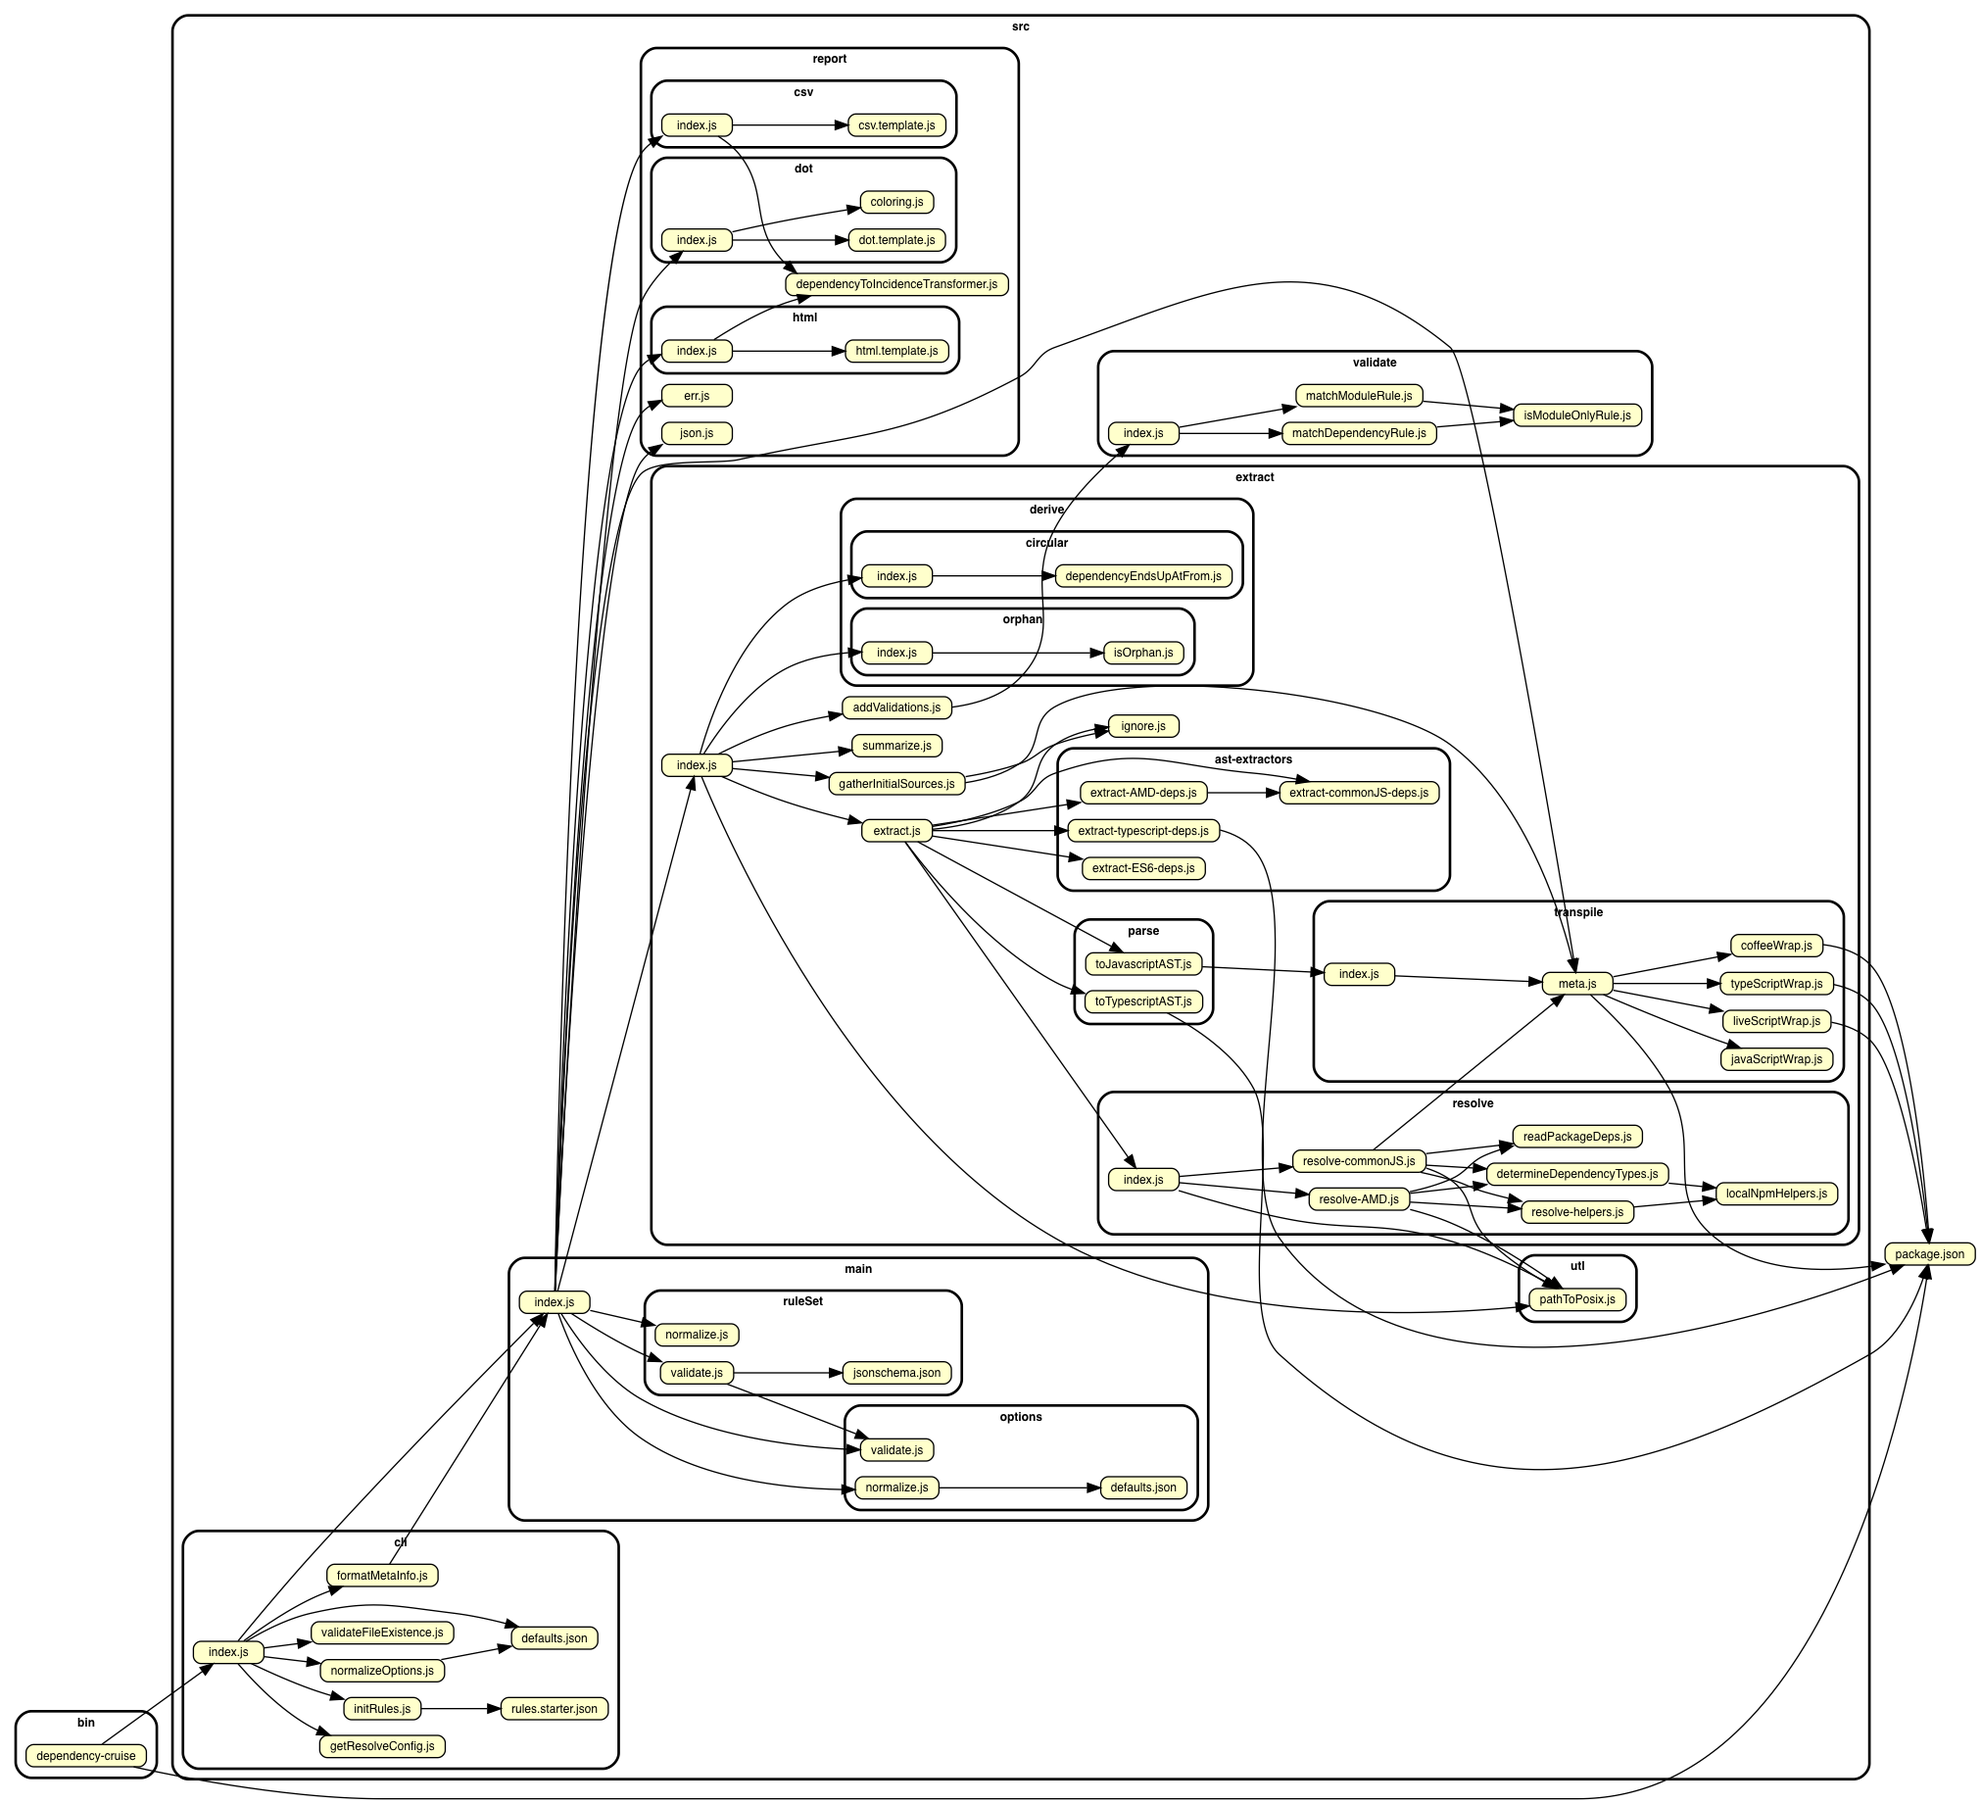
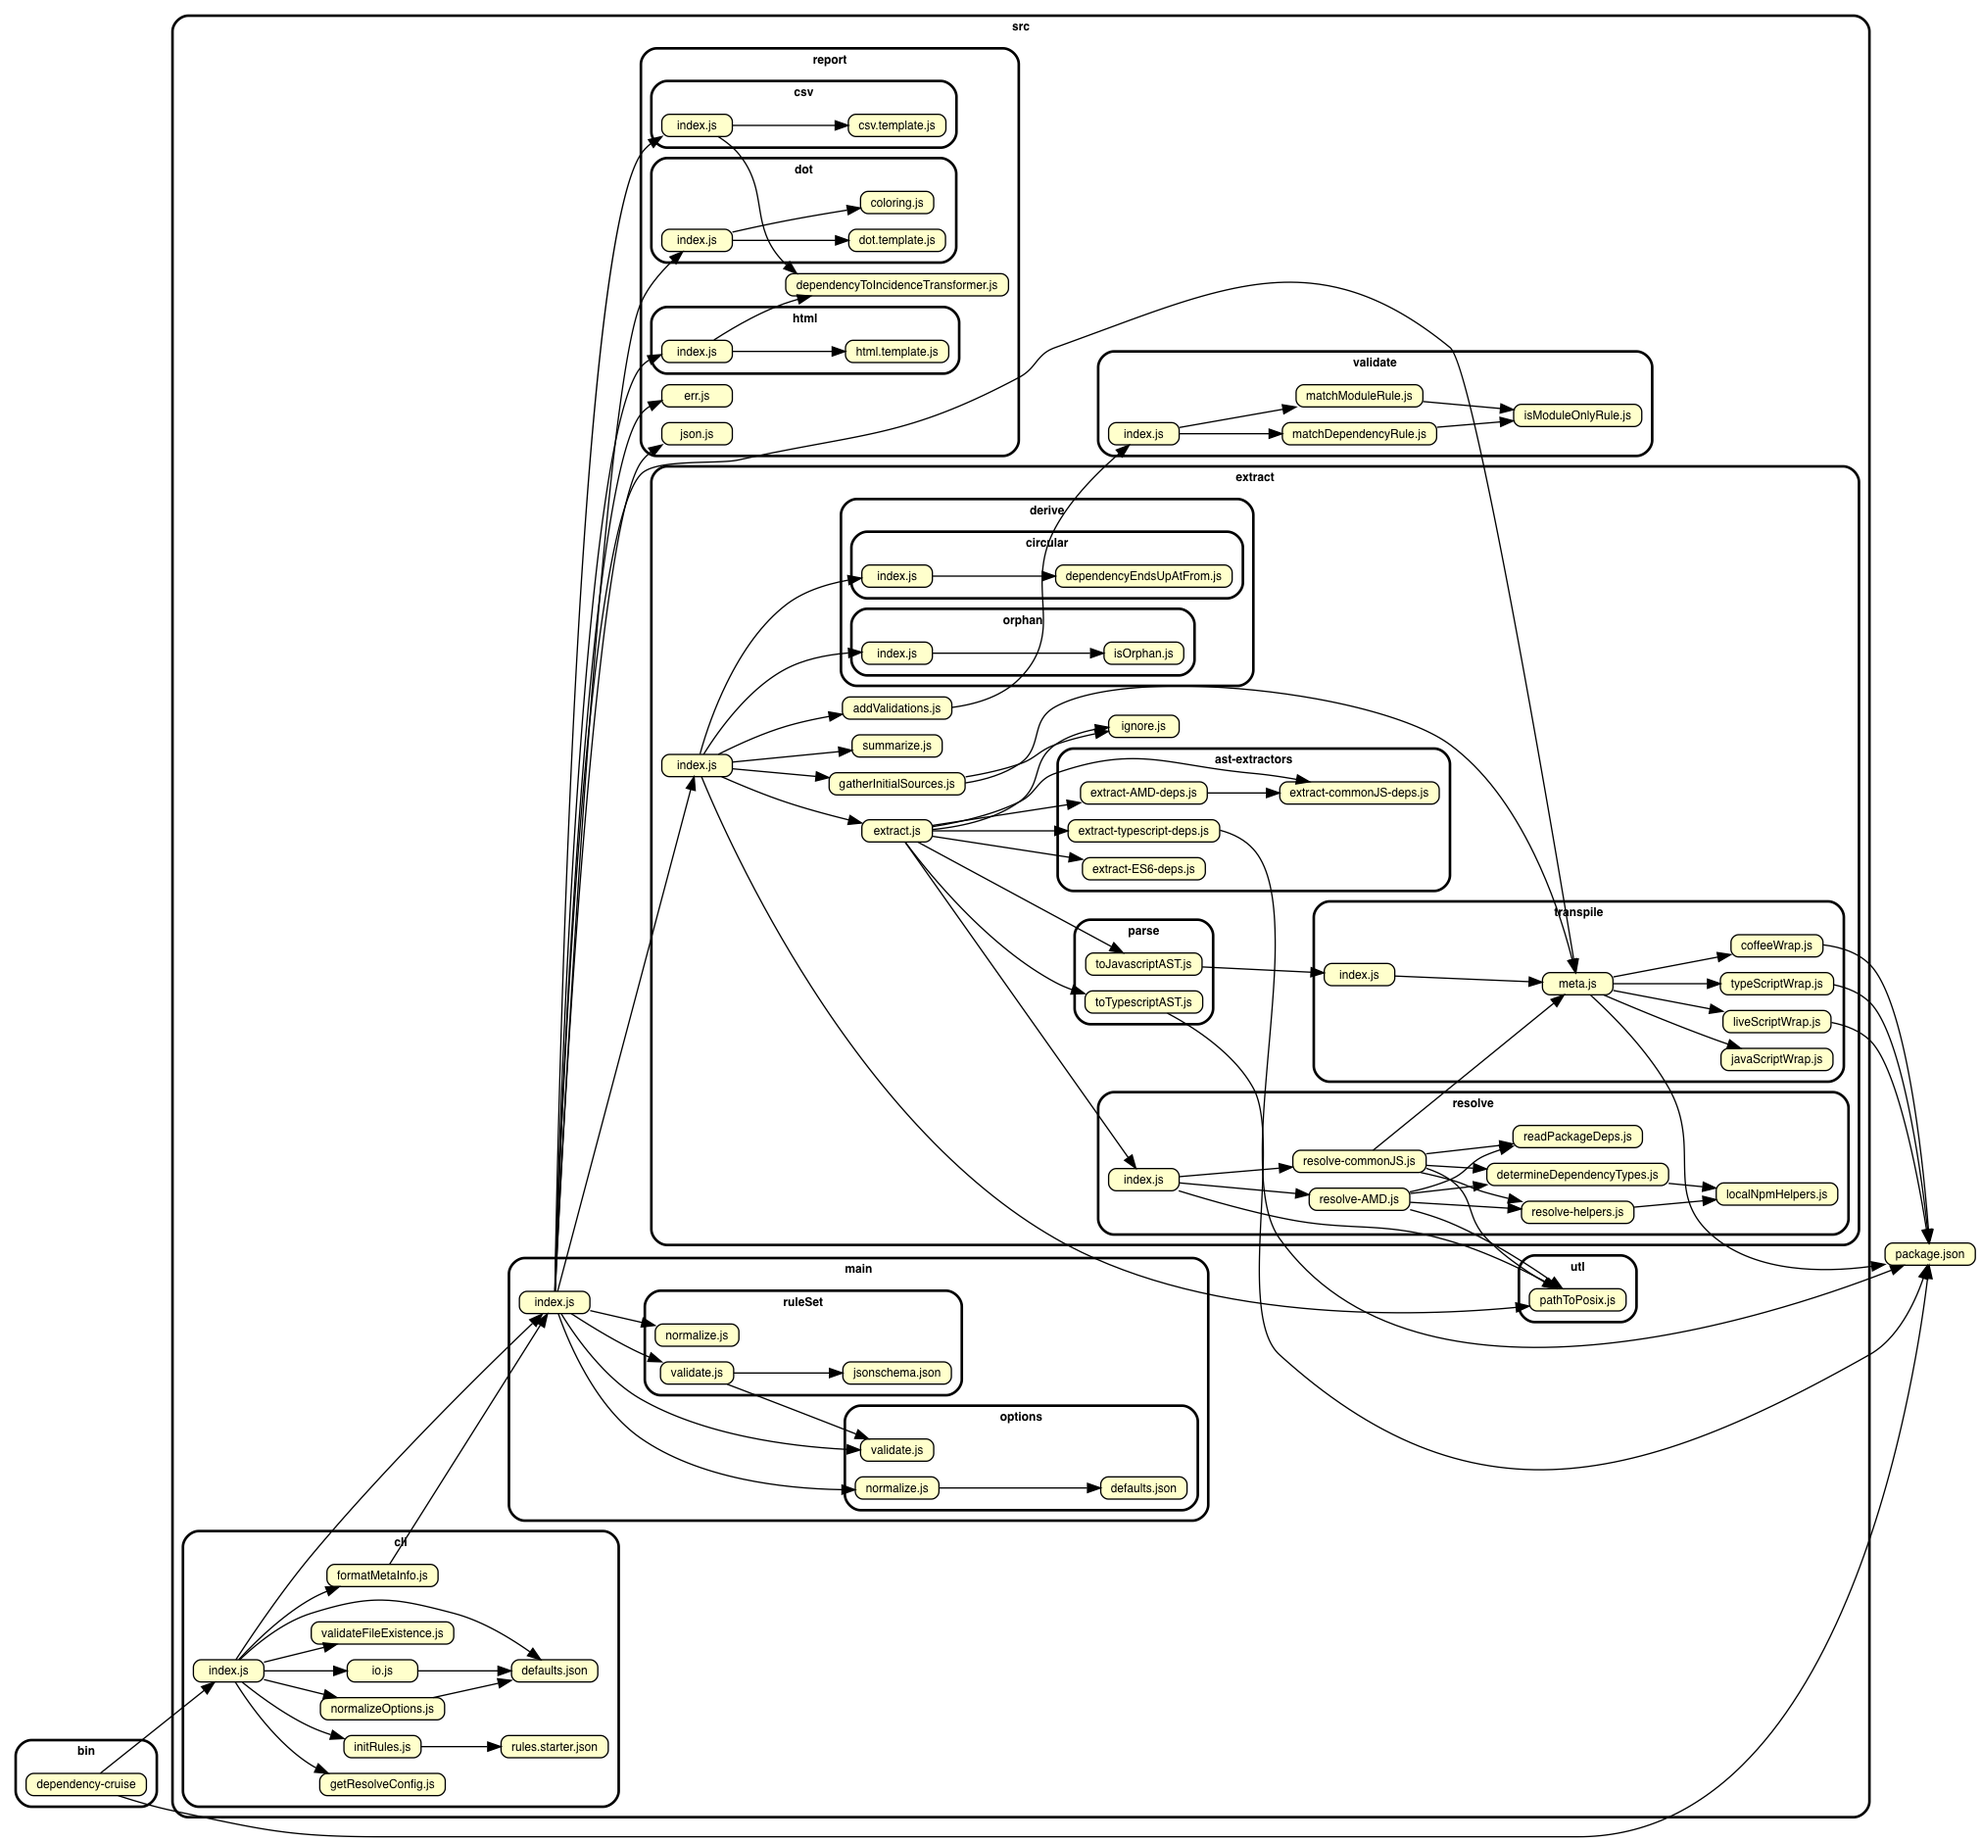
refactor(cli): put write functions in a separate module

diff --git a/src/cli/index.js b/src/cli/index.js
@@ -1,6 +1,5 @@
 "use strict";
 
-const fs                    = require('fs');
 const glob                  = require('glob');
 const _get                  = require('lodash').get;
 const main                  = require('../main');
@@ -8,52 +7,10 @@ const getResolveConfig      = require('./getResolveConfig');
 const validateFileExistence = require('./validateFileExistence');
 const normalizeOptions      = require('./normalizeOptions');
 const initRules             = require('./initRules');
+const io                    = require('./io');
 const formatMetaInfo        = require('./formatMetaInfo');
 const defaults              = require('./defaults.json');
 
-function writeToFile(pOutputTo, pDependencyString) {
-    try {
-        fs.writeFileSync(
-            pOutputTo,
-            pDependencyString,
-            {encoding: "utf8", flag: "w"}
-        );
-    } catch (e) {
-        process.stderr.write(`ERROR: Writing to '${pOutputTo}' didn't work. ${e}`);
-    }
-}
-
-/**
- * Writes the string pString to stdout in chunks of pBufferSize size.
- *
- * When writing to a pipe, it's possible that pipe's buffer is full.
- * To prevent this problem from happening we should take the value at which
- * the OS guarantees atomic writes to pipes - which on my OSX machine is
- * 512 bytes. That seems pretty low (I've seen reports of 4k on the internet)
- * so it looks like a safe limit.
- *
- * @param  {string} pString The string to write
- * @param  {number} pBufferSize The size of the buffer to use.
- * @returns {void} nothing
- */
-function writeToStdOut(pString, pBufferSize) {
-    const lNumberOfChunks = Math.ceil(pString.length / pBufferSize);
-    let i = 0;
-
-    for (i = 0; i < lNumberOfChunks; i++) {
-        process.stdout.write(pString.substr(i * pBufferSize, pBufferSize));
-    }
-
-}
-
-function write(pOutputTo, pContent) {
-    if ("-" === pOutputTo) {
-        // OS pipe buffer size in bytes - which is what ulimit -a tells me on OSX
-        writeToStdOut(pContent, defaults.PIPE_BUFFER_SIZE);
-    } else {
-        writeToFile(pOutputTo, pContent);
-    }
-}
 
 function createRulesFile(pOptions) {
     initRules(normalizeOptions.determineRulesFileName(pOptions.validate));
@@ -91,7 +48,7 @@ function runCruise(pFileDirArray, pOptions) {
 
     const lDependencyList = main.cruise(pFileDirArray, pOptions, lResolveOptions);
 
-    write(pOptions.outputTo, lDependencyList.modules);
+    io.write(pOptions.outputTo, lDependencyList.modules);
 
     /* istanbul ignore if */
     if (lDependencyList.summary.error > 0) {
@@ -114,4 +71,4 @@ module.exports = (pFileDirArray, pOptions) => {
         process.stderr.write(`\n  ERROR: ${e.message}\n`);
     }
 };
-/* eslint no-process-exit: 0 no-plusplus: 0*/
+/* eslint no-process-exit: 0 */

diff --git a/src/cli/io.js b/src/cli/io.js
@@ -1,0 +1,50 @@
+const fs                    = require('fs');
+const defaults              = require('./defaults.json');
+
+function writeToFile(pOutputTo, pDependencyString) {
+    try {
+        fs.writeFileSync(
+            pOutputTo,
+            pDependencyString,
+            {encoding: "utf8", flag: "w"}
+        );
+    } catch (e) {
+        process.stderr.write(`ERROR: Writing to '${pOutputTo}' didn't work. ${e}`);
+    }
+}
+
+/**
+ * Writes the string pString to stdout in chunks of pBufferSize size.
+ *
+ * When writing to a pipe, it's possible that pipe's buffer is full.
+ * To prevent this problem from happening we should take the value at which
+ * the OS guarantees atomic writes to pipes - which on my OSX machine is
+ * 512 bytes. That seems pretty low (I've seen reports of 4k on the internet)
+ * so it looks like a safe limit.
+ *
+ * @param  {string} pString The string to write
+ * @param  {number} pBufferSize The size of the buffer to use.
+ * @returns {void} nothing
+ */
+function writeToStdOut(pString, pBufferSize) {
+    const lNumberOfChunks = Math.ceil(pString.length / pBufferSize);
+    let i = 0;
+
+    /* eslint no-plusplus: 0 */
+    for (i = 0; i < lNumberOfChunks; i++) {
+        process.stdout.write(pString.substr(i * pBufferSize, pBufferSize));
+    }
+
+}
+function write (pOutputTo, pContent) {
+    if ("-" === pOutputTo) {
+        // OS pipe buffer size in bytes - which is what ulimit -a tells me on OSX
+        writeToStdOut(pContent, defaults.PIPE_BUFFER_SIZE);
+    } else {
+        writeToFile(pOutputTo, pContent);
+    }
+}
+
+module.exports = {
+    write
+};
